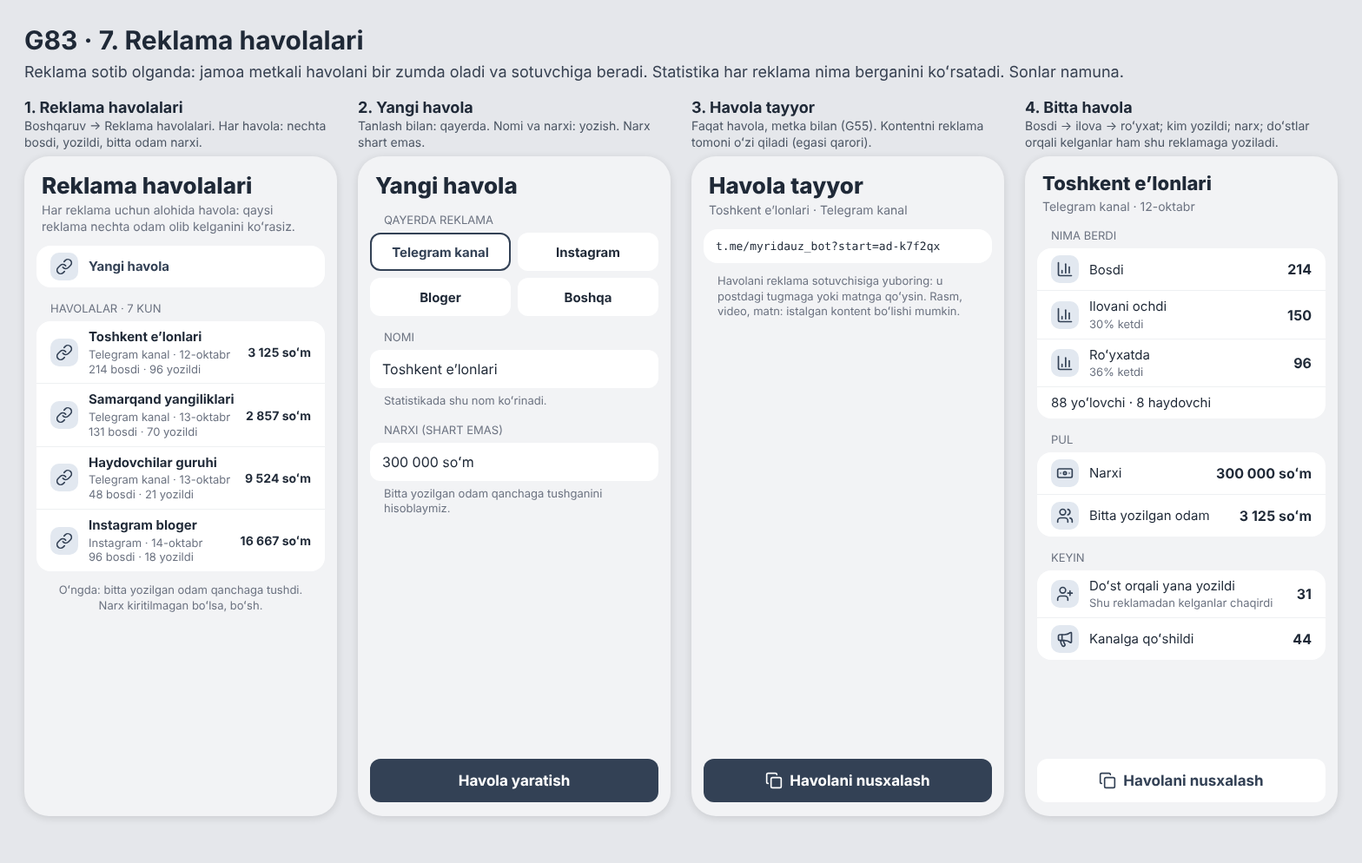
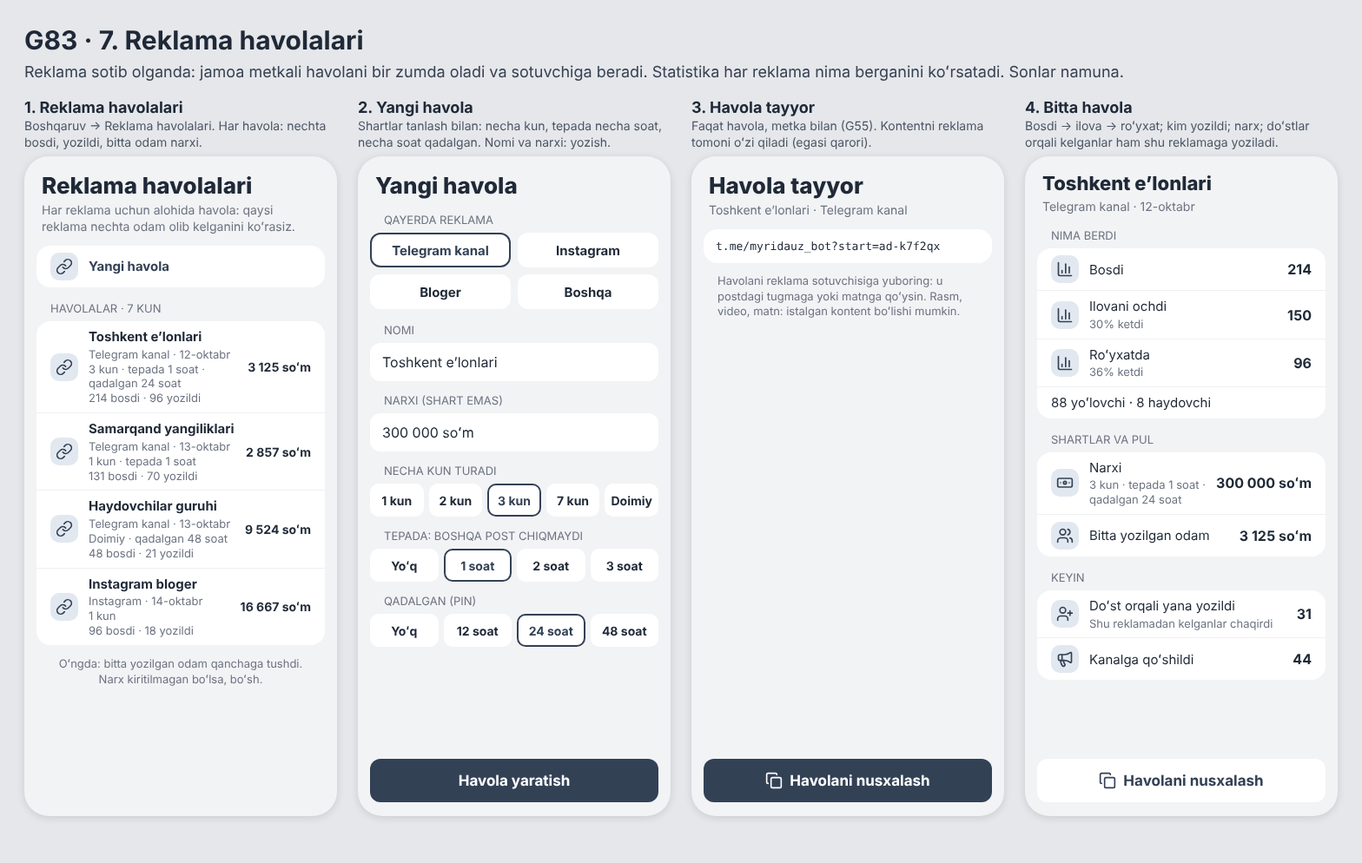
G83: «Reklama havolalari»: условия рекламы: цена, дни в канале, часы в «топе», часы в закрепе (решение владельца 14.10.2026)
Claude-Session: https://claude.ai/code/session_017t3fyWoGp8cMjeQ2tEG71h

diff --git a/docs/goals/g83/src/7-ad-links.html b/docs/goals/g83/src/7-ad-links.html
@@ -150,10 +150,14 @@ h1{font-size:30px;margin-bottom:6px}
 .pills2{display:grid;grid-template-columns:1fr 1fr;gap:8px;padding:0 14px 12px}
 .pill2{background:#fff;border-radius:12px;height:44px;display:flex;align-items:center;justify-content:center;font-size:15px;font-weight:700;border:2px solid transparent}
 .pill2.on{border-color:var(--strong);color:var(--btext)}
+.chipsx{display:grid;gap:6px;padding:0 14px 10px}
+.chipx{background:#fff;border-radius:10px;height:38px;display:flex;align-items:center;justify-content:center;font-size:14px;font-weight:700;border:2px solid transparent}
+.chipx.on{border-color:var(--strong);color:var(--btext)}
+.pill2{height:40px}
 .field{background:#fff;border-radius:12px;margin:0 14px 6px;padding:12px 14px;font-size:16px}
 .field.empty{color:#9CA3AF}
 .fhint{font-size:13px;color:var(--muted);padding:0 30px 12px;line-height:1.35}
 .linkbox{display:flex;align-items:center;gap:10px;padding:12px 14px}
 .linkbox code{flex:1;min-width:0;font-family:"DejaVu Sans Mono",monospace;font-size:13px;word-break:break-all;color:var(--text)}
 .cell .h.alarm{color:var(--red);font-weight:700}
-</style></head><body><svg width="0" height="0" style="position:absolute"><defs><symbol id="user-round" viewBox="0 0 24 24" fill="none" stroke="currentColor" stroke-width="2" stroke-linecap="round" stroke-linejoin="round"><circle cx="12" cy="8" r="5" /> <path d="M20 21a8 8 0 0 0-16 0" /></symbol><symbol id="car-front" viewBox="0 0 24 24" fill="none" stroke="currentColor" stroke-width="2" stroke-linecap="round" stroke-linejoin="round"><path d="m21 8-2 2-1.5-3.7A2 2 0 0 0 15.646 5H8.4a2 2 0 0 0-1.903 1.257L5 10 3 8" /> <path d="M7 14h.01" /> <path d="M17 14h.01" /> <rect width="18" height="8" x="3" y="10" rx="2" /> <path d="M5 18v2" /> <path d="M19 18v2" /></symbol><symbol id="check" viewBox="0 0 24 24" fill="none" stroke="currentColor" stroke-width="2" stroke-linecap="round" stroke-linejoin="round"><path d="M20 6 9 17l-5-5" /></symbol><symbol id="chevron-right" viewBox="0 0 24 24" fill="none" stroke="currentColor" stroke-width="2" stroke-linecap="round" stroke-linejoin="round"><path d="m9 18 6-6-6-6" /></symbol><symbol id="users" viewBox="0 0 24 24" fill="none" stroke="currentColor" stroke-width="2" stroke-linecap="round" stroke-linejoin="round"><path d="M16 21v-2a4 4 0 0 0-4-4H6a4 4 0 0 0-4 4v2" /> <path d="M16 3.128a4 4 0 0 1 0 7.744" /> <path d="M22 21v-2a4 4 0 0 0-3-3.87" /> <circle cx="9" cy="7" r="4" /></symbol><symbol id="shield-check" viewBox="0 0 24 24" fill="none" stroke="currentColor" stroke-width="2" stroke-linecap="round" stroke-linejoin="round"><path d="M20 13c0 5-3.5 7.5-7.66 8.95a1 1 0 0 1-.67-.01C7.5 20.5 4 18 4 13V6a1 1 0 0 1 1-1c2 0 4.5-1.2 6.24-2.72a1.17 1.17 0 0 1 1.52 0C14.51 3.81 17 5 19 5a1 1 0 0 1 1 1z" /> <path d="m9 12 2 2 4-4" /></symbol><symbol id="banknote" viewBox="0 0 24 24" fill="none" stroke="currentColor" stroke-width="2" stroke-linecap="round" stroke-linejoin="round"><rect width="20" height="12" x="2" y="6" rx="2" /> <circle cx="12" cy="12" r="2" /> <path d="M6 12h.01M18 12h.01" /></symbol><symbol id="eye-off" viewBox="0 0 24 24" fill="none" stroke="currentColor" stroke-width="2" stroke-linecap="round" stroke-linejoin="round"><path d="M10.733 5.076a10.744 10.744 0 0 1 11.205 6.575 1 1 0 0 1 0 .696 10.747 10.747 0 0 1-1.444 2.49" /> <path d="M14.084 14.158a3 3 0 0 1-4.242-4.242" /> <path d="M17.479 17.499a10.75 10.75 0 0 1-15.417-5.151 1 1 0 0 1 0-.696 10.75 10.75 0 0 1 4.446-5.143" /> <path d="m2 2 20 20" /></symbol><symbol id="megaphone" viewBox="0 0 24 24" fill="none" stroke="currentColor" stroke-width="2" stroke-linecap="round" stroke-linejoin="round"><path d="M11 6a13 13 0 0 0 8.4-2.8A1 1 0 0 1 21 4v12a1 1 0 0 1-1.6.8A13 13 0 0 0 11 14H5a2 2 0 0 1-2-2V8a2 2 0 0 1 2-2z" /> <path d="M6 14a12 12 0 0 0 2.4 7.2 2 2 0 0 0 3.2-2.4A8 8 0 0 1 10 14" /> <path d="M8 6v8" /></symbol><symbol id="share-2" viewBox="0 0 24 24" fill="none" stroke="currentColor" stroke-width="2" stroke-linecap="round" stroke-linejoin="round"><circle cx="18" cy="5" r="3" /> <circle cx="6" cy="12" r="3" /> <circle cx="18" cy="19" r="3" /> <line x1="8.59" x2="15.42" y1="13.51" y2="17.49" /> <line x1="15.41" x2="8.59" y1="6.51" y2="10.49" /></symbol><symbol id="bell" viewBox="0 0 24 24" fill="none" stroke="currentColor" stroke-width="2" stroke-linecap="round" stroke-linejoin="round"><path d="M10.268 21a2 2 0 0 0 3.464 0" /> <path d="M3.262 15.326A1 1 0 0 0 4 17h16a1 1 0 0 0 .74-1.673C19.41 13.956 18 12.499 18 8A6 6 0 0 0 6 8c0 4.499-1.411 5.956-2.738 7.326" /></symbol><symbol id="repeat" viewBox="0 0 24 24" fill="none" stroke="currentColor" stroke-width="2" stroke-linecap="round" stroke-linejoin="round"><path d="m17 2 4 4-4 4" /> <path d="M3 11v-1a4 4 0 0 1 4-4h14" /> <path d="m7 22-4-4 4-4" /> <path d="M21 13v1a4 4 0 0 1-4 4H3" /></symbol><symbol id="calendar-days" viewBox="0 0 24 24" fill="none" stroke="currentColor" stroke-width="2" stroke-linecap="round" stroke-linejoin="round"><path d="M8 2v3" /> <path d="M16 2v3" /> <rect x="3" y="3" width="18" height="18" rx="2" /> <path d="M3 9h18" /> <path d="M8 13h.01" /> <path d="M12 13h.01" /> <path d="M16 13h.01" /> <path d="M8 17h.01" /> <path d="M12 17h.01" /> <path d="M16 17h.01" /></symbol><symbol id="party-popper" viewBox="0 0 24 24" fill="none" stroke="currentColor" stroke-width="2" stroke-linecap="round" stroke-linejoin="round"><path d="M5.8 11.3 2 22l10.7-3.79" /> <path d="M4 3h.01" /> <path d="M22 8h.01" /> <path d="M15 2h.01" /> <path d="M22 20h.01" /> <path d="m22 2-2.24.75a2.9 2.9 0 0 0-1.96 3.12c.1.86-.57 1.63-1.45 1.63h-.38c-.86 0-1.6.6-1.76 1.44L14 10" /> <path d="m22 13-.82-.33c-.86-.34-1.82.2-1.98 1.11c-.11.7-.72 1.22-1.43 1.22H17" /> <path d="m11 2 .33.82c.34.86-.2 1.82-1.11 1.98C9.52 4.9 9 5.52 9 6.23V7" /> <path d="M11 13c1.93 1.93 2.83 4.17 2 5-.83.83-3.07-.07-5-2-1.93-1.93-2.83-4.17-2-5 .83-.83 3.07.07 5 2Z" /></symbol><symbol id="calendar-check" viewBox="0 0 24 24" fill="none" stroke="currentColor" stroke-width="2" stroke-linecap="round" stroke-linejoin="round"><path d="M8 2v3" /> <path d="M16 2v3" /> <rect x="3" y="3" width="18" height="18" rx="2" /> <path d="M3 9h18" /> <path d="m9 15 2 2 4-4" /></symbol><symbol id="calendar-clock" viewBox="0 0 24 24" fill="none" stroke="currentColor" stroke-width="2" stroke-linecap="round" stroke-linejoin="round"><path d="M16 14v2.2l1.6 1" /> <path d="M16 2v3" /> <path d="M21 7.338V5a2 2 0 00-2-2H5a2 2 0 00-2 2v14a2 2 0 002 2h2.338" /> <path d="M3 9h5.859" /> <path d="M8 2v3" /> <circle cx="16" cy="16" r="6" /></symbol><symbol id="clock" viewBox="0 0 24 24" fill="none" stroke="currentColor" stroke-width="2" stroke-linecap="round" stroke-linejoin="round"><circle cx="12" cy="12" r="10" /> <path d="M12 6v6l4 2" /></symbol><symbol id="search" viewBox="0 0 24 24" fill="none" stroke="currentColor" stroke-width="2" stroke-linecap="round" stroke-linejoin="round"><path d="m21 21-4.34-4.34" /> <circle cx="11" cy="11" r="8" /></symbol><symbol id="trash-2" viewBox="0 0 24 24" fill="none" stroke="currentColor" stroke-width="2" stroke-linecap="round" stroke-linejoin="round"><path d="M10 11v6" /> <path d="M14 11v6" /> <path d="M19 6v14a2 2 0 0 1-2 2H7a2 2 0 0 1-2-2V6" /> <path d="M3 6h18" /> <path d="M8 6V4a2 2 0 0 1 2-2h4a2 2 0 0 1 2 2v2" /></symbol><symbol id="x" viewBox="0 0 24 24" fill="none" stroke="currentColor" stroke-width="2" stroke-linecap="round" stroke-linejoin="round"><path d="M18 6 6 18" /> <path d="m6 6 12 12" /></symbol><symbol id="map-pin" viewBox="0 0 24 24" fill="none" stroke="currentColor" stroke-width="2" stroke-linecap="round" stroke-linejoin="round"><path d="M20 10c0 4.993-5.539 10.193-7.399 11.799a1 1 0 0 1-1.202 0C9.539 20.193 4 14.993 4 10a8 8 0 0 1 16 0" /> <circle cx="12" cy="10" r="3" /></symbol><symbol id="send" viewBox="0 0 24 24" fill="none" stroke="currentColor" stroke-width="2" stroke-linecap="round" stroke-linejoin="round"><path d="M14.536 21.686a.5.5 0 0 0 .937-.024l6.5-19a.496.496 0 0 0-.635-.635l-19 6.5a.5.5 0 0 0-.024.937l7.93 3.18a2 2 0 0 1 1.112 1.11z" /> <path d="m21.854 2.147-10.94 10.939" /></symbol><symbol id="user-plus" viewBox="0 0 24 24" fill="none" stroke="currentColor" stroke-width="2" stroke-linecap="round" stroke-linejoin="round"><path d="M16 21v-2a4 4 0 0 0-4-4H6a4 4 0 0 0-4 4v2" /> <circle cx="9" cy="7" r="4" /> <line x1="19" x2="19" y1="8" y2="14" /> <line x1="22" x2="16" y1="11" y2="11" /></symbol><symbol id="pencil" viewBox="0 0 24 24" fill="none" stroke="currentColor" stroke-width="2" stroke-linecap="round" stroke-linejoin="round"><path d="M21.174 6.812a1 1 0 0 0-3.986-3.987L3.842 16.174a2 2 0 0 0-.5.83l-1.321 4.352a.5.5 0 0 0 .623.622l4.353-1.32a2 2 0 0 0 .83-.497z" /> <path d="m15 5 4 4" /></symbol><symbol id="chart-column" viewBox="0 0 24 24" fill="none" stroke="currentColor" stroke-width="2" stroke-linecap="round" stroke-linejoin="round"><path d="M3 3v16a2 2 0 0 0 2 2h16" /> <path d="M18 17V9" /> <path d="M13 17V5" /> <path d="M8 17v-3" /></symbol><symbol id="route" viewBox="0 0 24 24" fill="none" stroke="currentColor" stroke-width="2" stroke-linecap="round" stroke-linejoin="round"><circle cx="6" cy="19" r="3" /> <path d="M9 19h8.5a3.5 3.5 0 0 0 0-7h-11a3.5 3.5 0 0 1 0-7H15" /> <circle cx="18" cy="5" r="3" /></symbol><symbol id="circle-check" viewBox="0 0 24 24" fill="none" stroke="currentColor" stroke-width="2" stroke-linecap="round" stroke-linejoin="round"><circle cx="12" cy="12" r="10" /> <path d="m16 9-5.5 5.5L8 12" /></symbol><symbol id="hourglass" viewBox="0 0 24 24" fill="none" stroke="currentColor" stroke-width="2" stroke-linecap="round" stroke-linejoin="round"><path d="M5 22h14" /> <path d="M5 2h14" /> <path d="M17 22v-4.172a2 2 0 0 0-.586-1.414L12 12l-4.414 4.414A2 2 0 0 0 7 17.828V22" /> <path d="M7 2v4.172a2 2 0 0 0 .586 1.414L12 12l4.414-4.414A2 2 0 0 0 17 6.172V2" /></symbol><symbol id="trending-up" viewBox="0 0 24 24" fill="none" stroke="currentColor" stroke-width="2" stroke-linecap="round" stroke-linejoin="round"><path d="M16 7h6v6" /> <path d="m22 7-8.5 8.5-5-5L2 17" /></symbol><symbol id="phone-off" viewBox="0 0 24 24" fill="none" stroke="currentColor" stroke-width="2" stroke-linecap="round" stroke-linejoin="round"><path d="M10.1 13.9a14 14 0 0 0 3.732 2.668 1 1 0 0 0 1.213-.303l.355-.465A2 2 0 0 1 17 15h3a2 2 0 0 1 2 2v3a2 2 0 0 1-2 2 18 18 0 0 1-12.728-5.272" /> <path d="M22 2 2 22" /> <path d="M4.76 13.582A18 18 0 0 1 2 4a2 2 0 0 1 2-2h3a2 2 0 0 1 2 2v3a2 2 0 0 1-.8 1.6l-.468.351a1 1 0 0 0-.292 1.233 14 14 0 0 0 .244.473" /></symbol><symbol id="venus" viewBox="0 0 24 24" fill="none" stroke="currentColor" stroke-width="2" stroke-linecap="round" stroke-linejoin="round"><path d="M12 15v7" /> <path d="M9 19h6" /> <circle cx="12" cy="9" r="6" /></symbol><symbol id="heart" viewBox="0 0 24 24" fill="none" stroke="currentColor" stroke-width="2" stroke-linecap="round" stroke-linejoin="round"><path d="M2 9.5a5.5 5.5 0 0 1 9.591-3.676.56.56 0 0 0 .818 0A5.49 5.49 0 0 1 22 9.5c0 2.29-1.5 4-3 5.5l-5.492 5.313a2 2 0 0 1-3 .019L5 15c-1.5-1.5-3-3.2-3-5.5" /></symbol><symbol id="messages-square" viewBox="0 0 24 24" fill="none" stroke="currentColor" stroke-width="2" stroke-linecap="round" stroke-linejoin="round"><path d="M16 10a2 2 0 0 1-2 2H6.828a2 2 0 0 0-1.414.586l-2.202 2.202A.71.71 0 0 1 2 14.286V4a2 2 0 0 1 2-2h10a2 2 0 0 1 2 2z" /> <path d="M20 9a2 2 0 0 1 2 2v10.286a.71.71 0 0 1-1.212.502l-2.202-2.202A2 2 0 0 0 17.172 19H10a2 2 0 0 1-2-2v-1" /></symbol><symbol id="undo-2" viewBox="0 0 24 24" fill="none" stroke="currentColor" stroke-width="2" stroke-linecap="round" stroke-linejoin="round"><path d="M9 14 4 9l5-5" /> <path d="M4 9h10.5a5.5 5.5 0 0 1 5.5 5.5a5.5 5.5 0 0 1-5.5 5.5H11" /></symbol><symbol id="zoom-in" viewBox="0 0 24 24" fill="none" stroke="currentColor" stroke-width="2" stroke-linecap="round" stroke-linejoin="round"><circle cx="11" cy="11" r="8" /> <line x1="21" x2="16.65" y1="21" y2="16.65" /> <line x1="11" x2="11" y1="8" y2="14" /> <line x1="8" x2="14" y1="11" y2="11" /></symbol><symbol id="map" viewBox="0 0 24 24" fill="none" stroke="currentColor" stroke-width="2" stroke-linecap="round" stroke-linejoin="round"><path d="M14.106 5.553a2 2 0 0 0 1.788 0l3.659-1.83A1 1 0 0 1 21 4.619v12.764a1 1 0 0 1-.553.894l-4.553 2.277a2 2 0 0 1-1.788 0l-4.212-2.106a2 2 0 0 0-1.788 0l-3.659 1.83A1 1 0 0 1 3 19.381V6.618a1 1 0 0 1 .553-.894l4.553-2.277a2 2 0 0 1 1.788 0z" /> <path d="M15 5.764v15" /> <path d="M9 3.236v15" /></symbol><symbol id="smartphone" viewBox="0 0 24 24" fill="none" stroke="currentColor" stroke-width="2" stroke-linecap="round" stroke-linejoin="round"><rect width="14" height="20" x="5" y="2" rx="2" ry="2" /> <path d="M12 18h.01" /></symbol><symbol id="link" viewBox="0 0 24 24" fill="none" stroke="currentColor" stroke-width="2" stroke-linecap="round" stroke-linejoin="round"><path d="M10 13a5 5 0 0 0 7.54.54l3-3a5 5 0 0 0-7.07-7.07l-1.72 1.71" /> <path d="M14 11a5 5 0 0 0-7.54-.54l-3 3a5 5 0 0 0 7.07 7.07l1.71-1.71" /></symbol><symbol id="clock-3" viewBox="0 0 24 24" fill="none" stroke="currentColor" stroke-width="2" stroke-linecap="round" stroke-linejoin="round"><circle cx="12" cy="12" r="10" /> <path d="M12 6v6h4" /></symbol><symbol id="bot" viewBox="0 0 24 24" fill="none" stroke="currentColor" stroke-width="2" stroke-linecap="round" stroke-linejoin="round"><path d="M12 8V4H8" /> <rect width="16" height="12" x="4" y="8" rx="2" /> <path d="M2 14h2" /> <path d="M20 14h2" /> <path d="M15 13v2" /> <path d="M9 13v2" /></symbol><symbol id="copy" viewBox="0 0 24 24" fill="none" stroke="currentColor" stroke-width="2" stroke-linecap="round" stroke-linejoin="round"><rect width="14" height="14" x="8" y="8" rx="2" ry="2" /> <path d="M4 16c-1.1 0-2-.9-2-2V4c0-1.1.9-2 2-2h10c1.1 0 2 .9 2 2" /></symbol></defs></svg><h1>G83 · 7. Reklama havolalari</h1><div class="sub">Reklama sotib olganda: jamoa metkali havolani bir zumda oladi va sotuvchiga beradi. Statistika har reklama nima berganini koʻrsatadi. Sonlar namuna.</div><div class="row"><div class="col"><div class="lab">1. Reklama havolalari<small>Boshqaruv → Reklama havolalari. Har havola: nechta bosdi, yozildi, bitta odam narxi.</small></div><div class="ph adm"><div class="ttl">Reklama havolalari<small>Har reklama uchun alohida havola: qaysi reklama nechta odam olib kelganini koʻrasiz.</small></div><div class="card"><div class="cell"><span class="tile "><svg style="width:20px;height:20px;flex:none"><use href="#link"/></svg></span><div class="w"><b style="color:var(--btext)">Yangi havola</b></div></div></div><div class="head">Havolalar · 7 kun</div><div class="card"><div class="cell"><span class="tile "><svg style="width:20px;height:20px;flex:none"><use href="#link"/></svg></span><div class="w"><b>Toshkent eʼlonlari</b><div class="h">Telegram kanal · 12-oktabr<br>214 bosdi · 96 yozildi</div></div><span class="v" style="font-size:14px">3 125 soʻm</span></div><div class="cell"><span class="tile "><svg style="width:20px;height:20px;flex:none"><use href="#link"/></svg></span><div class="w"><b>Samarqand yangiliklari</b><div class="h">Telegram kanal · 13-oktabr<br>131 bosdi · 70 yozildi</div></div><span class="v" style="font-size:14px">2 857 soʻm</span></div><div class="cell"><span class="tile "><svg style="width:20px;height:20px;flex:none"><use href="#link"/></svg></span><div class="w"><b>Haydovchilar guruhi</b><div class="h">Telegram kanal · 13-oktabr<br>48 bosdi · 21 yozildi</div></div><span class="v" style="font-size:14px">9 524 soʻm</span></div><div class="cell"><span class="tile "><svg style="width:20px;height:20px;flex:none"><use href="#link"/></svg></span><div class="w"><b>Instagram bloger</b><div class="h">Instagram · 14-oktabr<br>96 bosdi · 18 yozildi</div></div><span class="v" style="font-size:14px">16 667 soʻm</span></div></div><div class="note">Oʻngda: bitta yozilgan odam qanchaga tushdi. Narx kiritilmagan boʻlsa, boʻsh.</div></div></div><div class="col"><div class="lab">2. Yangi havola<small>Tanlash bilan: qayerda. Nomi va narxi: yozish. Narx shart emas.</small></div><div class="ph adm"><div class="ttl">Yangi havola</div><div class="head">Qayerda reklama</div><div class="pills2"><div class="pill2 on">Telegram kanal</div><div class="pill2">Instagram</div><div class="pill2">Bloger</div><div class="pill2">Boshqa</div></div><div class="head">Nomi</div><div class="field">Toshkent eʼlonlari</div><div class="fhint">Statistikada shu nom koʻrinadi.</div><div class="head">Narxi (shart emas)</div><div class="field">300 000 soʻm</div><div class="fhint">Bitta yozilgan odam qanchaga tushganini hisoblaymiz.</div><div class="foot"><div class="btn">Havola yaratish</div></div></div></div><div class="col"><div class="lab">3. Havola tayyor<small>Faqat havola, metka bilan (G55). Kontentni reklama tomoni oʻzi qiladi (egasi qarori).</small></div><div class="ph adm"><div class="ttl">Havola tayyor<small>Toshkent eʼlonlari · Telegram kanal</small></div><div class="card"><div class="linkbox"><code>t.me/myridauz_bot?start=ad-k7f2qx</code></div></div><div class="fhint">Havolani reklama sotuvchisiga yuboring: u postdagi tugmaga yoki matnga qoʻysin. Rasm, video, matn: istalgan kontent boʻlishi mumkin.</div><div class="foot"><div class="btn"><svg style="width:20px;height:20px;flex:none"><use href="#copy"/></svg>Havolani nusxalash</div></div></div></div><div class="col"><div class="lab">4. Bitta havola<small>Bosdi → ilova → roʻyxat; kim yozildi; narx; doʻstlar orqali kelganlar ham shu reklamaga yoziladi.</small></div><div class="ph adm"><div class="ttl" style="font-size:22px">Toshkent eʼlonlari<small>Telegram kanal · 12-oktabr</small></div><div class="head">Nima berdi</div><div class="card"><div class="cell"><span class="tile "><svg style="width:20px;height:20px;flex:none"><use href="#chart-column"/></svg></span><div class="w">Bosdi</div><span class="v">214</span></div><div class="cell"><span class="tile "><svg style="width:20px;height:20px;flex:none"><use href="#chart-column"/></svg></span><div class="w">Ilovani ochdi<div class="h"><span class="h">30% ketdi</span></div></div><span class="v">150</span></div><div class="cell"><span class="tile "><svg style="width:20px;height:20px;flex:none"><use href="#chart-column"/></svg></span><div class="w">Roʻyxatda<div class="h"><span class="h">36% ketdi</span></div></div><span class="v">96</span></div><div class="cell"><div class="w">88 yoʻlovchi · 8 haydovchi</div></div></div><div class="head">Pul</div><div class="card"><div class="cell"><span class="tile "><svg style="width:20px;height:20px;flex:none"><use href="#banknote"/></svg></span><div class="w">Narxi</div><span class="v">300 000 soʻm</span></div><div class="cell"><span class="tile "><svg style="width:20px;height:20px;flex:none"><use href="#users"/></svg></span><div class="w">Bitta yozilgan odam</div><span class="v">3 125 soʻm</span></div></div><div class="head">Keyin</div><div class="card"><div class="cell"><span class="tile "><svg style="width:20px;height:20px;flex:none"><use href="#user-plus"/></svg></span><div class="w">Doʻst orqali yana yozildi<div class="h">Shu reklamadan kelganlar chaqirdi</div></div><span class="v">31</span></div><div class="cell"><span class="tile "><svg style="width:20px;height:20px;flex:none"><use href="#megaphone"/></svg></span><div class="w">Kanalga qoʻshildi</div><span class="v">44</span></div></div><div class="foot"><div class="btn ghost"><svg style="width:20px;height:20px;flex:none"><use href="#copy"/></svg>Havolani nusxalash</div></div></div></div></div></body></html>
+</style></head><body><svg width="0" height="0" style="position:absolute"><defs><symbol id="user-round" viewBox="0 0 24 24" fill="none" stroke="currentColor" stroke-width="2" stroke-linecap="round" stroke-linejoin="round"><circle cx="12" cy="8" r="5" /> <path d="M20 21a8 8 0 0 0-16 0" /></symbol><symbol id="car-front" viewBox="0 0 24 24" fill="none" stroke="currentColor" stroke-width="2" stroke-linecap="round" stroke-linejoin="round"><path d="m21 8-2 2-1.5-3.7A2 2 0 0 0 15.646 5H8.4a2 2 0 0 0-1.903 1.257L5 10 3 8" /> <path d="M7 14h.01" /> <path d="M17 14h.01" /> <rect width="18" height="8" x="3" y="10" rx="2" /> <path d="M5 18v2" /> <path d="M19 18v2" /></symbol><symbol id="check" viewBox="0 0 24 24" fill="none" stroke="currentColor" stroke-width="2" stroke-linecap="round" stroke-linejoin="round"><path d="M20 6 9 17l-5-5" /></symbol><symbol id="chevron-right" viewBox="0 0 24 24" fill="none" stroke="currentColor" stroke-width="2" stroke-linecap="round" stroke-linejoin="round"><path d="m9 18 6-6-6-6" /></symbol><symbol id="users" viewBox="0 0 24 24" fill="none" stroke="currentColor" stroke-width="2" stroke-linecap="round" stroke-linejoin="round"><path d="M16 21v-2a4 4 0 0 0-4-4H6a4 4 0 0 0-4 4v2" /> <path d="M16 3.128a4 4 0 0 1 0 7.744" /> <path d="M22 21v-2a4 4 0 0 0-3-3.87" /> <circle cx="9" cy="7" r="4" /></symbol><symbol id="shield-check" viewBox="0 0 24 24" fill="none" stroke="currentColor" stroke-width="2" stroke-linecap="round" stroke-linejoin="round"><path d="M20 13c0 5-3.5 7.5-7.66 8.95a1 1 0 0 1-.67-.01C7.5 20.5 4 18 4 13V6a1 1 0 0 1 1-1c2 0 4.5-1.2 6.24-2.72a1.17 1.17 0 0 1 1.52 0C14.51 3.81 17 5 19 5a1 1 0 0 1 1 1z" /> <path d="m9 12 2 2 4-4" /></symbol><symbol id="banknote" viewBox="0 0 24 24" fill="none" stroke="currentColor" stroke-width="2" stroke-linecap="round" stroke-linejoin="round"><rect width="20" height="12" x="2" y="6" rx="2" /> <circle cx="12" cy="12" r="2" /> <path d="M6 12h.01M18 12h.01" /></symbol><symbol id="eye-off" viewBox="0 0 24 24" fill="none" stroke="currentColor" stroke-width="2" stroke-linecap="round" stroke-linejoin="round"><path d="M10.733 5.076a10.744 10.744 0 0 1 11.205 6.575 1 1 0 0 1 0 .696 10.747 10.747 0 0 1-1.444 2.49" /> <path d="M14.084 14.158a3 3 0 0 1-4.242-4.242" /> <path d="M17.479 17.499a10.75 10.75 0 0 1-15.417-5.151 1 1 0 0 1 0-.696 10.75 10.75 0 0 1 4.446-5.143" /> <path d="m2 2 20 20" /></symbol><symbol id="megaphone" viewBox="0 0 24 24" fill="none" stroke="currentColor" stroke-width="2" stroke-linecap="round" stroke-linejoin="round"><path d="M11 6a13 13 0 0 0 8.4-2.8A1 1 0 0 1 21 4v12a1 1 0 0 1-1.6.8A13 13 0 0 0 11 14H5a2 2 0 0 1-2-2V8a2 2 0 0 1 2-2z" /> <path d="M6 14a12 12 0 0 0 2.4 7.2 2 2 0 0 0 3.2-2.4A8 8 0 0 1 10 14" /> <path d="M8 6v8" /></symbol><symbol id="share-2" viewBox="0 0 24 24" fill="none" stroke="currentColor" stroke-width="2" stroke-linecap="round" stroke-linejoin="round"><circle cx="18" cy="5" r="3" /> <circle cx="6" cy="12" r="3" /> <circle cx="18" cy="19" r="3" /> <line x1="8.59" x2="15.42" y1="13.51" y2="17.49" /> <line x1="15.41" x2="8.59" y1="6.51" y2="10.49" /></symbol><symbol id="bell" viewBox="0 0 24 24" fill="none" stroke="currentColor" stroke-width="2" stroke-linecap="round" stroke-linejoin="round"><path d="M10.268 21a2 2 0 0 0 3.464 0" /> <path d="M3.262 15.326A1 1 0 0 0 4 17h16a1 1 0 0 0 .74-1.673C19.41 13.956 18 12.499 18 8A6 6 0 0 0 6 8c0 4.499-1.411 5.956-2.738 7.326" /></symbol><symbol id="repeat" viewBox="0 0 24 24" fill="none" stroke="currentColor" stroke-width="2" stroke-linecap="round" stroke-linejoin="round"><path d="m17 2 4 4-4 4" /> <path d="M3 11v-1a4 4 0 0 1 4-4h14" /> <path d="m7 22-4-4 4-4" /> <path d="M21 13v1a4 4 0 0 1-4 4H3" /></symbol><symbol id="calendar-days" viewBox="0 0 24 24" fill="none" stroke="currentColor" stroke-width="2" stroke-linecap="round" stroke-linejoin="round"><path d="M8 2v3" /> <path d="M16 2v3" /> <rect x="3" y="3" width="18" height="18" rx="2" /> <path d="M3 9h18" /> <path d="M8 13h.01" /> <path d="M12 13h.01" /> <path d="M16 13h.01" /> <path d="M8 17h.01" /> <path d="M12 17h.01" /> <path d="M16 17h.01" /></symbol><symbol id="party-popper" viewBox="0 0 24 24" fill="none" stroke="currentColor" stroke-width="2" stroke-linecap="round" stroke-linejoin="round"><path d="M5.8 11.3 2 22l10.7-3.79" /> <path d="M4 3h.01" /> <path d="M22 8h.01" /> <path d="M15 2h.01" /> <path d="M22 20h.01" /> <path d="m22 2-2.24.75a2.9 2.9 0 0 0-1.96 3.12c.1.86-.57 1.63-1.45 1.63h-.38c-.86 0-1.6.6-1.76 1.44L14 10" /> <path d="m22 13-.82-.33c-.86-.34-1.82.2-1.98 1.11c-.11.7-.72 1.22-1.43 1.22H17" /> <path d="m11 2 .33.82c.34.86-.2 1.82-1.11 1.98C9.52 4.9 9 5.52 9 6.23V7" /> <path d="M11 13c1.93 1.93 2.83 4.17 2 5-.83.83-3.07-.07-5-2-1.93-1.93-2.83-4.17-2-5 .83-.83 3.07.07 5 2Z" /></symbol><symbol id="calendar-check" viewBox="0 0 24 24" fill="none" stroke="currentColor" stroke-width="2" stroke-linecap="round" stroke-linejoin="round"><path d="M8 2v3" /> <path d="M16 2v3" /> <rect x="3" y="3" width="18" height="18" rx="2" /> <path d="M3 9h18" /> <path d="m9 15 2 2 4-4" /></symbol><symbol id="calendar-clock" viewBox="0 0 24 24" fill="none" stroke="currentColor" stroke-width="2" stroke-linecap="round" stroke-linejoin="round"><path d="M16 14v2.2l1.6 1" /> <path d="M16 2v3" /> <path d="M21 7.338V5a2 2 0 00-2-2H5a2 2 0 00-2 2v14a2 2 0 002 2h2.338" /> <path d="M3 9h5.859" /> <path d="M8 2v3" /> <circle cx="16" cy="16" r="6" /></symbol><symbol id="clock" viewBox="0 0 24 24" fill="none" stroke="currentColor" stroke-width="2" stroke-linecap="round" stroke-linejoin="round"><circle cx="12" cy="12" r="10" /> <path d="M12 6v6l4 2" /></symbol><symbol id="search" viewBox="0 0 24 24" fill="none" stroke="currentColor" stroke-width="2" stroke-linecap="round" stroke-linejoin="round"><path d="m21 21-4.34-4.34" /> <circle cx="11" cy="11" r="8" /></symbol><symbol id="trash-2" viewBox="0 0 24 24" fill="none" stroke="currentColor" stroke-width="2" stroke-linecap="round" stroke-linejoin="round"><path d="M10 11v6" /> <path d="M14 11v6" /> <path d="M19 6v14a2 2 0 0 1-2 2H7a2 2 0 0 1-2-2V6" /> <path d="M3 6h18" /> <path d="M8 6V4a2 2 0 0 1 2-2h4a2 2 0 0 1 2 2v2" /></symbol><symbol id="x" viewBox="0 0 24 24" fill="none" stroke="currentColor" stroke-width="2" stroke-linecap="round" stroke-linejoin="round"><path d="M18 6 6 18" /> <path d="m6 6 12 12" /></symbol><symbol id="map-pin" viewBox="0 0 24 24" fill="none" stroke="currentColor" stroke-width="2" stroke-linecap="round" stroke-linejoin="round"><path d="M20 10c0 4.993-5.539 10.193-7.399 11.799a1 1 0 0 1-1.202 0C9.539 20.193 4 14.993 4 10a8 8 0 0 1 16 0" /> <circle cx="12" cy="10" r="3" /></symbol><symbol id="send" viewBox="0 0 24 24" fill="none" stroke="currentColor" stroke-width="2" stroke-linecap="round" stroke-linejoin="round"><path d="M14.536 21.686a.5.5 0 0 0 .937-.024l6.5-19a.496.496 0 0 0-.635-.635l-19 6.5a.5.5 0 0 0-.024.937l7.93 3.18a2 2 0 0 1 1.112 1.11z" /> <path d="m21.854 2.147-10.94 10.939" /></symbol><symbol id="user-plus" viewBox="0 0 24 24" fill="none" stroke="currentColor" stroke-width="2" stroke-linecap="round" stroke-linejoin="round"><path d="M16 21v-2a4 4 0 0 0-4-4H6a4 4 0 0 0-4 4v2" /> <circle cx="9" cy="7" r="4" /> <line x1="19" x2="19" y1="8" y2="14" /> <line x1="22" x2="16" y1="11" y2="11" /></symbol><symbol id="pencil" viewBox="0 0 24 24" fill="none" stroke="currentColor" stroke-width="2" stroke-linecap="round" stroke-linejoin="round"><path d="M21.174 6.812a1 1 0 0 0-3.986-3.987L3.842 16.174a2 2 0 0 0-.5.83l-1.321 4.352a.5.5 0 0 0 .623.622l4.353-1.32a2 2 0 0 0 .83-.497z" /> <path d="m15 5 4 4" /></symbol><symbol id="chart-column" viewBox="0 0 24 24" fill="none" stroke="currentColor" stroke-width="2" stroke-linecap="round" stroke-linejoin="round"><path d="M3 3v16a2 2 0 0 0 2 2h16" /> <path d="M18 17V9" /> <path d="M13 17V5" /> <path d="M8 17v-3" /></symbol><symbol id="route" viewBox="0 0 24 24" fill="none" stroke="currentColor" stroke-width="2" stroke-linecap="round" stroke-linejoin="round"><circle cx="6" cy="19" r="3" /> <path d="M9 19h8.5a3.5 3.5 0 0 0 0-7h-11a3.5 3.5 0 0 1 0-7H15" /> <circle cx="18" cy="5" r="3" /></symbol><symbol id="circle-check" viewBox="0 0 24 24" fill="none" stroke="currentColor" stroke-width="2" stroke-linecap="round" stroke-linejoin="round"><circle cx="12" cy="12" r="10" /> <path d="m16 9-5.5 5.5L8 12" /></symbol><symbol id="hourglass" viewBox="0 0 24 24" fill="none" stroke="currentColor" stroke-width="2" stroke-linecap="round" stroke-linejoin="round"><path d="M5 22h14" /> <path d="M5 2h14" /> <path d="M17 22v-4.172a2 2 0 0 0-.586-1.414L12 12l-4.414 4.414A2 2 0 0 0 7 17.828V22" /> <path d="M7 2v4.172a2 2 0 0 0 .586 1.414L12 12l4.414-4.414A2 2 0 0 0 17 6.172V2" /></symbol><symbol id="trending-up" viewBox="0 0 24 24" fill="none" stroke="currentColor" stroke-width="2" stroke-linecap="round" stroke-linejoin="round"><path d="M16 7h6v6" /> <path d="m22 7-8.5 8.5-5-5L2 17" /></symbol><symbol id="phone-off" viewBox="0 0 24 24" fill="none" stroke="currentColor" stroke-width="2" stroke-linecap="round" stroke-linejoin="round"><path d="M10.1 13.9a14 14 0 0 0 3.732 2.668 1 1 0 0 0 1.213-.303l.355-.465A2 2 0 0 1 17 15h3a2 2 0 0 1 2 2v3a2 2 0 0 1-2 2 18 18 0 0 1-12.728-5.272" /> <path d="M22 2 2 22" /> <path d="M4.76 13.582A18 18 0 0 1 2 4a2 2 0 0 1 2-2h3a2 2 0 0 1 2 2v3a2 2 0 0 1-.8 1.6l-.468.351a1 1 0 0 0-.292 1.233 14 14 0 0 0 .244.473" /></symbol><symbol id="venus" viewBox="0 0 24 24" fill="none" stroke="currentColor" stroke-width="2" stroke-linecap="round" stroke-linejoin="round"><path d="M12 15v7" /> <path d="M9 19h6" /> <circle cx="12" cy="9" r="6" /></symbol><symbol id="heart" viewBox="0 0 24 24" fill="none" stroke="currentColor" stroke-width="2" stroke-linecap="round" stroke-linejoin="round"><path d="M2 9.5a5.5 5.5 0 0 1 9.591-3.676.56.56 0 0 0 .818 0A5.49 5.49 0 0 1 22 9.5c0 2.29-1.5 4-3 5.5l-5.492 5.313a2 2 0 0 1-3 .019L5 15c-1.5-1.5-3-3.2-3-5.5" /></symbol><symbol id="messages-square" viewBox="0 0 24 24" fill="none" stroke="currentColor" stroke-width="2" stroke-linecap="round" stroke-linejoin="round"><path d="M16 10a2 2 0 0 1-2 2H6.828a2 2 0 0 0-1.414.586l-2.202 2.202A.71.71 0 0 1 2 14.286V4a2 2 0 0 1 2-2h10a2 2 0 0 1 2 2z" /> <path d="M20 9a2 2 0 0 1 2 2v10.286a.71.71 0 0 1-1.212.502l-2.202-2.202A2 2 0 0 0 17.172 19H10a2 2 0 0 1-2-2v-1" /></symbol><symbol id="undo-2" viewBox="0 0 24 24" fill="none" stroke="currentColor" stroke-width="2" stroke-linecap="round" stroke-linejoin="round"><path d="M9 14 4 9l5-5" /> <path d="M4 9h10.5a5.5 5.5 0 0 1 5.5 5.5a5.5 5.5 0 0 1-5.5 5.5H11" /></symbol><symbol id="zoom-in" viewBox="0 0 24 24" fill="none" stroke="currentColor" stroke-width="2" stroke-linecap="round" stroke-linejoin="round"><circle cx="11" cy="11" r="8" /> <line x1="21" x2="16.65" y1="21" y2="16.65" /> <line x1="11" x2="11" y1="8" y2="14" /> <line x1="8" x2="14" y1="11" y2="11" /></symbol><symbol id="map" viewBox="0 0 24 24" fill="none" stroke="currentColor" stroke-width="2" stroke-linecap="round" stroke-linejoin="round"><path d="M14.106 5.553a2 2 0 0 0 1.788 0l3.659-1.83A1 1 0 0 1 21 4.619v12.764a1 1 0 0 1-.553.894l-4.553 2.277a2 2 0 0 1-1.788 0l-4.212-2.106a2 2 0 0 0-1.788 0l-3.659 1.83A1 1 0 0 1 3 19.381V6.618a1 1 0 0 1 .553-.894l4.553-2.277a2 2 0 0 1 1.788 0z" /> <path d="M15 5.764v15" /> <path d="M9 3.236v15" /></symbol><symbol id="smartphone" viewBox="0 0 24 24" fill="none" stroke="currentColor" stroke-width="2" stroke-linecap="round" stroke-linejoin="round"><rect width="14" height="20" x="5" y="2" rx="2" ry="2" /> <path d="M12 18h.01" /></symbol><symbol id="link" viewBox="0 0 24 24" fill="none" stroke="currentColor" stroke-width="2" stroke-linecap="round" stroke-linejoin="round"><path d="M10 13a5 5 0 0 0 7.54.54l3-3a5 5 0 0 0-7.07-7.07l-1.72 1.71" /> <path d="M14 11a5 5 0 0 0-7.54-.54l-3 3a5 5 0 0 0 7.07 7.07l1.71-1.71" /></symbol><symbol id="clock-3" viewBox="0 0 24 24" fill="none" stroke="currentColor" stroke-width="2" stroke-linecap="round" stroke-linejoin="round"><circle cx="12" cy="12" r="10" /> <path d="M12 6v6h4" /></symbol><symbol id="bot" viewBox="0 0 24 24" fill="none" stroke="currentColor" stroke-width="2" stroke-linecap="round" stroke-linejoin="round"><path d="M12 8V4H8" /> <rect width="16" height="12" x="4" y="8" rx="2" /> <path d="M2 14h2" /> <path d="M20 14h2" /> <path d="M15 13v2" /> <path d="M9 13v2" /></symbol><symbol id="copy" viewBox="0 0 24 24" fill="none" stroke="currentColor" stroke-width="2" stroke-linecap="round" stroke-linejoin="round"><rect width="14" height="14" x="8" y="8" rx="2" ry="2" /> <path d="M4 16c-1.1 0-2-.9-2-2V4c0-1.1.9-2 2-2h10c1.1 0 2 .9 2 2" /></symbol></defs></svg><h1>G83 · 7. Reklama havolalari</h1><div class="sub">Reklama sotib olganda: jamoa metkali havolani bir zumda oladi va sotuvchiga beradi. Statistika har reklama nima berganini koʻrsatadi. Sonlar namuna.</div><div class="row"><div class="col"><div class="lab">1. Reklama havolalari<small>Boshqaruv → Reklama havolalari. Har havola: nechta bosdi, yozildi, bitta odam narxi.</small></div><div class="ph adm"><div class="ttl">Reklama havolalari<small>Har reklama uchun alohida havola: qaysi reklama nechta odam olib kelganini koʻrasiz.</small></div><div class="card"><div class="cell"><span class="tile "><svg style="width:20px;height:20px;flex:none"><use href="#link"/></svg></span><div class="w"><b style="color:var(--btext)">Yangi havola</b></div></div></div><div class="head">Havolalar · 7 kun</div><div class="card"><div class="cell"><span class="tile "><svg style="width:20px;height:20px;flex:none"><use href="#link"/></svg></span><div class="w"><b>Toshkent eʼlonlari</b><div class="h">Telegram kanal · 12-oktabr<br>3 kun · tepada 1 soat · qadalgan 24 soat<br>214 bosdi · 96 yozildi</div></div><span class="v" style="font-size:14px">3 125 soʻm</span></div><div class="cell"><span class="tile "><svg style="width:20px;height:20px;flex:none"><use href="#link"/></svg></span><div class="w"><b>Samarqand yangiliklari</b><div class="h">Telegram kanal · 13-oktabr<br>1 kun · tepada 1 soat<br>131 bosdi · 70 yozildi</div></div><span class="v" style="font-size:14px">2 857 soʻm</span></div><div class="cell"><span class="tile "><svg style="width:20px;height:20px;flex:none"><use href="#link"/></svg></span><div class="w"><b>Haydovchilar guruhi</b><div class="h">Telegram kanal · 13-oktabr<br>Doimiy · qadalgan 48 soat<br>48 bosdi · 21 yozildi</div></div><span class="v" style="font-size:14px">9 524 soʻm</span></div><div class="cell"><span class="tile "><svg style="width:20px;height:20px;flex:none"><use href="#link"/></svg></span><div class="w"><b>Instagram bloger</b><div class="h">Instagram · 14-oktabr<br>1 kun<br>96 bosdi · 18 yozildi</div></div><span class="v" style="font-size:14px">16 667 soʻm</span></div></div><div class="note">Oʻngda: bitta yozilgan odam qanchaga tushdi. Narx kiritilmagan boʻlsa, boʻsh.</div></div></div><div class="col"><div class="lab">2. Yangi havola<small>Shartlar tanlash bilan: necha kun, tepada necha soat, necha soat qadalgan. Nomi va narxi: yozish.</small></div><div class="ph adm"><div class="ttl">Yangi havola</div><div class="head">Qayerda reklama</div><div class="pills2"><div class="pill2 on">Telegram kanal</div><div class="pill2">Instagram</div><div class="pill2">Bloger</div><div class="pill2">Boshqa</div></div><div class="head">Nomi</div><div class="field">Toshkent eʼlonlari</div><div class="head" style="padding-top:8px">Narxi (shart emas)</div><div class="field">300 000 soʻm</div><div class="head" style="padding-top:8px">Necha kun turadi</div><div class="chipsx" style="grid-template-columns:repeat(5,1fr)"><div class="chipx">1 kun</div><div class="chipx">2 kun</div><div class="chipx on">3 kun</div><div class="chipx">7 kun</div><div class="chipx">Doimiy</div></div><div class="head">Tepada: boshqa post chiqmaydi</div><div class="chipsx" style="grid-template-columns:repeat(4,1fr)"><div class="chipx">Yoʻq</div><div class="chipx on">1 soat</div><div class="chipx">2 soat</div><div class="chipx">3 soat</div></div><div class="head">Qadalgan (pin)</div><div class="chipsx" style="grid-template-columns:repeat(4,1fr)"><div class="chipx">Yoʻq</div><div class="chipx">12 soat</div><div class="chipx on">24 soat</div><div class="chipx">48 soat</div></div><div class="foot"><div class="btn">Havola yaratish</div></div></div></div><div class="col"><div class="lab">3. Havola tayyor<small>Faqat havola, metka bilan (G55). Kontentni reklama tomoni oʻzi qiladi (egasi qarori).</small></div><div class="ph adm"><div class="ttl">Havola tayyor<small>Toshkent eʼlonlari · Telegram kanal</small></div><div class="card"><div class="linkbox"><code>t.me/myridauz_bot?start=ad-k7f2qx</code></div></div><div class="fhint">Havolani reklama sotuvchisiga yuboring: u postdagi tugmaga yoki matnga qoʻysin. Rasm, video, matn: istalgan kontent boʻlishi mumkin.</div><div class="foot"><div class="btn"><svg style="width:20px;height:20px;flex:none"><use href="#copy"/></svg>Havolani nusxalash</div></div></div></div><div class="col"><div class="lab">4. Bitta havola<small>Bosdi → ilova → roʻyxat; kim yozildi; narx; doʻstlar orqali kelganlar ham shu reklamaga yoziladi.</small></div><div class="ph adm"><div class="ttl" style="font-size:22px">Toshkent eʼlonlari<small>Telegram kanal · 12-oktabr</small></div><div class="head">Nima berdi</div><div class="card"><div class="cell"><span class="tile "><svg style="width:20px;height:20px;flex:none"><use href="#chart-column"/></svg></span><div class="w">Bosdi</div><span class="v">214</span></div><div class="cell"><span class="tile "><svg style="width:20px;height:20px;flex:none"><use href="#chart-column"/></svg></span><div class="w">Ilovani ochdi<div class="h"><span class="h">30% ketdi</span></div></div><span class="v">150</span></div><div class="cell"><span class="tile "><svg style="width:20px;height:20px;flex:none"><use href="#chart-column"/></svg></span><div class="w">Roʻyxatda<div class="h"><span class="h">36% ketdi</span></div></div><span class="v">96</span></div><div class="cell"><div class="w">88 yoʻlovchi · 8 haydovchi</div></div></div><div class="head">Shartlar va pul</div><div class="card"><div class="cell"><span class="tile "><svg style="width:20px;height:20px;flex:none"><use href="#banknote"/></svg></span><div class="w">Narxi<div class="h">3 kun · tepada 1 soat · qadalgan 24 soat</div></div><span class="v">300 000 soʻm</span></div><div class="cell"><span class="tile "><svg style="width:20px;height:20px;flex:none"><use href="#users"/></svg></span><div class="w">Bitta yozilgan odam</div><span class="v">3 125 soʻm</span></div></div><div class="head">Keyin</div><div class="card"><div class="cell"><span class="tile "><svg style="width:20px;height:20px;flex:none"><use href="#user-plus"/></svg></span><div class="w">Doʻst orqali yana yozildi<div class="h">Shu reklamadan kelganlar chaqirdi</div></div><span class="v">31</span></div><div class="cell"><span class="tile "><svg style="width:20px;height:20px;flex:none"><use href="#megaphone"/></svg></span><div class="w">Kanalga qoʻshildi</div><span class="v">44</span></div></div><div class="foot"><div class="btn ghost"><svg style="width:20px;height:20px;flex:none"><use href="#copy"/></svg>Havolani nusxalash</div></div></div></div></div></body></html>

diff --git a/docs/184-ad-links.md b/docs/184-ad-links.md
@@ -1,13 +1,13 @@
 # 184. Ссылки для рекламы: ссылка с меткой (G83)
 
-> **Кратко:** просьба владельца 14.10.2026. Когда покупаем рекламу, команда за минуту получает ссылку с меткой источника (G55, `116`) и отдаёт её продавцу рекламы вместе со своим контентом. Готового поста нет: только ссылка (решение владельца 14.10.2026). «Statistika» показывает, что дала каждая реклама: сколько нажали, сколько записались, во сколько обошёлся один записавшийся. Админка → «Boshqaruv» → «Reklama havolalari». Макет: `goals/g83/7-ad-links`. Около 3 ч.
+> **Кратко:** просьба владельца 14.10.2026. Когда покупаем рекламу, команда за минуту получает ссылку с меткой источника (G55, `116`) и отдаёт её продавцу рекламы вместе со своим контентом. Готового поста нет: только ссылка (решение владельца 14.10.2026). «Statistika» показывает, что дала каждая реклама: сколько нажали, сколько записались, во сколько обошёлся один записавшийся. Админка → «Boshqaruv» → «Reklama havolalari». Макет: `goals/g83/7-ad-links`. Около 3,5 ч.
 
 ## Путь команды
 
 | № | Экран | Что там |
 |---|---|---|
-| 1 | Reklama havolalari | «Yangi havola» и список ссылок: где, когда; нажали, записались; цена одного записавшегося |
-| 2 | Yangi havola | Выбрать, где реклама (Telegram kanal, Instagram, Bloger, Boshqa). Ввести имя (видно в статистике) и цену, если хотим считать деньги |
+| 1 | Reklama havolalari | «Yangi havola» и список ссылок: где, когда, условия; нажали, записались; цена одного записавшегося |
+| 2 | Yangi havola | Выбрать, где реклама (Telegram kanal, Instagram, Bloger, Boshqa). Ввести имя (видно в статистике) и цену. Условия кнопками (ниже) |
 | 3 | Havola tayyor | Ссылка и кнопка «Havolani nusxalash». Продавец ставит ссылку в кнопку или текст поста; контент любой: картинка, видео, текст |
 | 4 | Одна ссылка | Bosdi → Ilovani ochdi → Roʻyxatda с уходом на шаге; сколько попутчиков и водителей; цена и цена одного; сколько записалось по приглашениям этих людей; сколько вступили в канал |
 
@@ -19,6 +19,19 @@
 - Бот запоминает метку при Start как первое касание (`116`). Кнопка приветствия передаёт её в Mini App, запись списка хранит её в `via` (`181`).
 - Имя бота берётся из настроек среды (`brands/rida/environments.ts`), не из кода (`22`).
 
+## Условия рекламы
+
+Как каналы продают рекламу (решение владельца 14.10.2026). Всё выбором, печатать не нужно.
+
+| Поле | Варианты | Что значит |
+|---|---|---|
+| Narxi | число в сумах, по желанию | сколько заплатили за всё |
+| Necha kun turadi | 1, 2, 3, 7 kun, Doimiy | сколько дней пост висит в канале; «Doimiy»: без удаления |
+| Tepada | Yoʻq, 1, 2, 3 soat | сколько часов после нашего поста в канале нет других постов |
+| Qadalgan (pin) | Yoʻq, 12, 24, 48 soat | сколько часов пост закреплён |
+
+- Условия видны в списке и на экране ссылки. Когда наберутся данные, «Statistika» сравнит их: окупается ли закреп и «топ», сколько дней нужно посту.
+
 ## Данные
 
 | Таблица `ad_links` | Что |
@@ -26,6 +39,7 @@
 | `code` | `ad-k7f2qx`: метка в ссылке |
 | `place` | где реклама (`telegram`, `instagram`, `blogger`, `other`) |
 | `name`, `price` | имя для статистики; цена в сумах, по желанию |
+| `days`, `top_hours`, `pin_hours` | условия: дни в канале (пусто: без удаления), часы в «топе», часы в закрепе |
 | `created_by`, `created_at` | кто и когда создал |
 
 - «Bosdi»: Start бота с этой меткой. «Ilovani ochdi»: первый экран опроса с этой меткой. «Roʻyxatda»: записи списка с этой меткой.
@@ -40,6 +54,7 @@
 | Таблица и API: создать, список, одна ссылка | 1 |
 | Метка в Start бота и в событиях | 0,5 |
 | 3 экрана админки | 1 |
+| Условия рекламы: поля, кнопки, показ | 0,5 |
 | Тесты | 0,5 |
 
 ## Решения владельца
@@ -48,4 +63,5 @@
 |---|---|
 | Ссылка для рекламы | Просьба 14.10.2026 |
 | Только ссылка, без готового поста | Решение владельца 14.10.2026 |
+| Условия: цена, дни, «топ», закреп | Решение владельца 14.10.2026 |
 | Макет `7-ad-links` и тексты (`182`) | Ждут «да» |

diff --git a/docs/182-g83-texts.md b/docs/182-g83-texts.md
@@ -56,7 +56,7 @@
 | Направление | Roʻyxat {date}dan beri · Yoʻlovchilar · Yoʻlovchilarni nima qiynaydi · Haydovchilar · Ariza tasdiqlangan |
 | Открытие | Yoʻnalishni ochish · Yoʻnalishni ochasizmi? · {p} yoʻlovchi va {d} haydovchiga bot xabar yuboradi. Xabar bir marta ketadi. · Ochish · Ochildi · {date} · Xabar ketdi: {n} kishiga |
 | Воронки (`183`) | Roʻyxatga yozilish · Botni ochdi · Ilovani ochdi (есть) · Rolni tanladi · Roʻyxatda · Roʻyxat: yoʻlovchi · Roʻyxat: haydovchi · Rol · Muammolar · Qayerdan · Qayerga · Joy · Qachon · {drop}% ketdi (есть) |
-| Ссылки для рекламы (`184`) | Reklama havolalari · Har reklama uchun alohida havola: qaysi reklama nechta odam olib kelganini koʻrasiz. · Yangi havola · Havolalar · {n} bosdi · {n} yozildi · Oʻngda: bitta yozilgan odam qanchaga tushdi. Narx kiritilmagan boʻlsa, boʻsh. · Qayerda reklama · Telegram kanal · Instagram · Bloger · Boshqa · Nomi · Statistikada shu nom koʻrinadi. · Narxi (shart emas) · Bitta yozilgan odam qanchaga tushganini hisoblaymiz. · Havola yaratish · Havola tayyor · Havolani reklama sotuvchisiga yuboring: u postdagi tugmaga yoki matnga qoʻysin. Rasm, video, matn: istalgan kontent boʻlishi mumkin. · Havolani nusxalash · Nima berdi · Bosdi · {p} yoʻlovchi · {d} haydovchi · Pul · Narxi · Bitta yozilgan odam · Keyin · Doʻst orqali yana yozildi · Shu reklamadan kelganlar chaqirdi |
+| Ссылки для рекламы (`184`) | Reklama havolalari · Har reklama uchun alohida havola: qaysi reklama nechta odam olib kelganini koʻrasiz. · Yangi havola · Havolalar · {n} bosdi · {n} yozildi · Oʻngda: bitta yozilgan odam qanchaga tushdi. Narx kiritilmagan boʻlsa, boʻsh. · Qayerda reklama · Telegram kanal · Instagram · Bloger · Boshqa · Nomi · Statistikada shu nom koʻrinadi. · Narxi (shart emas) · Necha kun turadi · {n} kun · Doimiy · Tepada: boshqa post chiqmaydi · Yoʻq · {n} soat · Qadalgan (pin) · tepada {n} soat · qadalgan {n} soat · Havola yaratish · Havola tayyor · Havolani reklama sotuvchisiga yuboring: u postdagi tugmaga yoki matnga qoʻysin. Rasm, video, matn: istalgan kontent boʻlishi mumkin. · Havolani nusxalash · Nima berdi · Bosdi · {p} yoʻlovchi · {d} haydovchi · Shartlar va pul · Narxi · Bitta yozilgan odam · Keyin · Doʻst orqali yana yozildi · Shu reklamadan kelganlar chaqirdi |
 | Блоки статистики (`183`) | Roʻyxatdan keyin · Kanalga qoʻshildi · Kanallar qadamida · Doʻstini chaqirdi · Havolani yubordi · Doʻst orqali yozildi · Bitta odam oʻrtacha {n} kishini olib keldi · Qayerdan kelishdi (есть) · {n} ochdi · {share} % yozildi · Doʻst havolasi · Haydovchi yetishmaydi · Qachon yozilishdi · Qurilmalar (есть) · Qanchalik tez-tez · Ham yoʻlovchi, ham haydovchi |
 
 ## Убрано
@@ -72,3 +72,4 @@
 - «Raqamim begonalarda»: понятно без пояснения?
 - «Tanish gaplarmi?» в приветствии: так говорят?
 - Группы «Vodiy», «Markaz», «Janub», «Gʻarb»: так люди называют части страны?
+- «Tepada: boshqa post chiqmaydi» и «Qadalgan (pin)»: так говорят продавцы рекламы в каналах?
